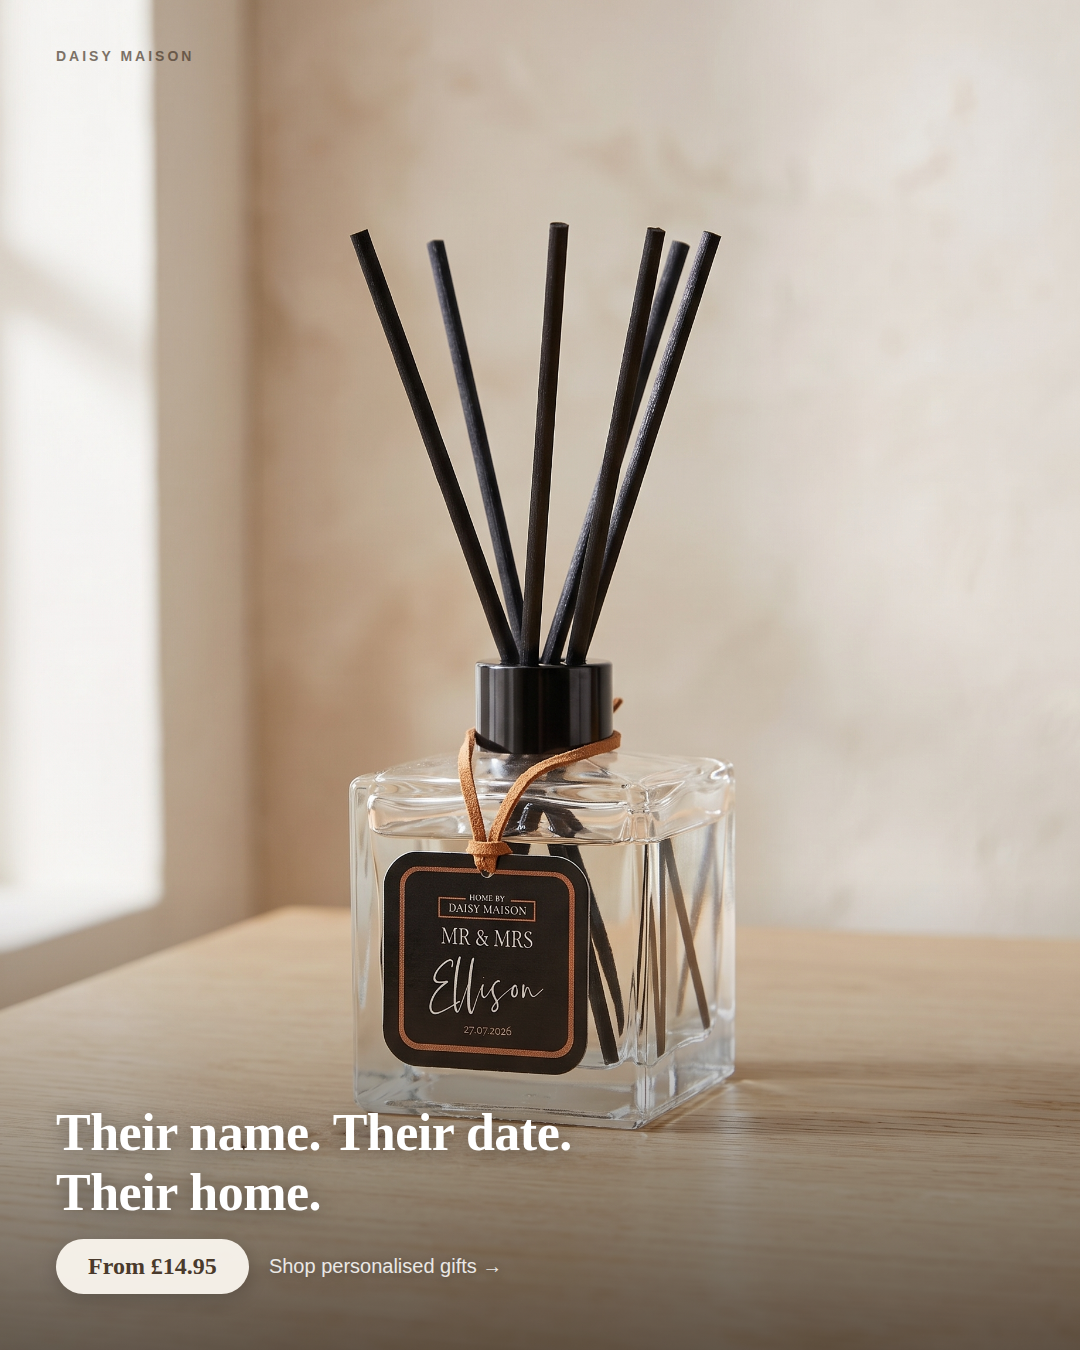
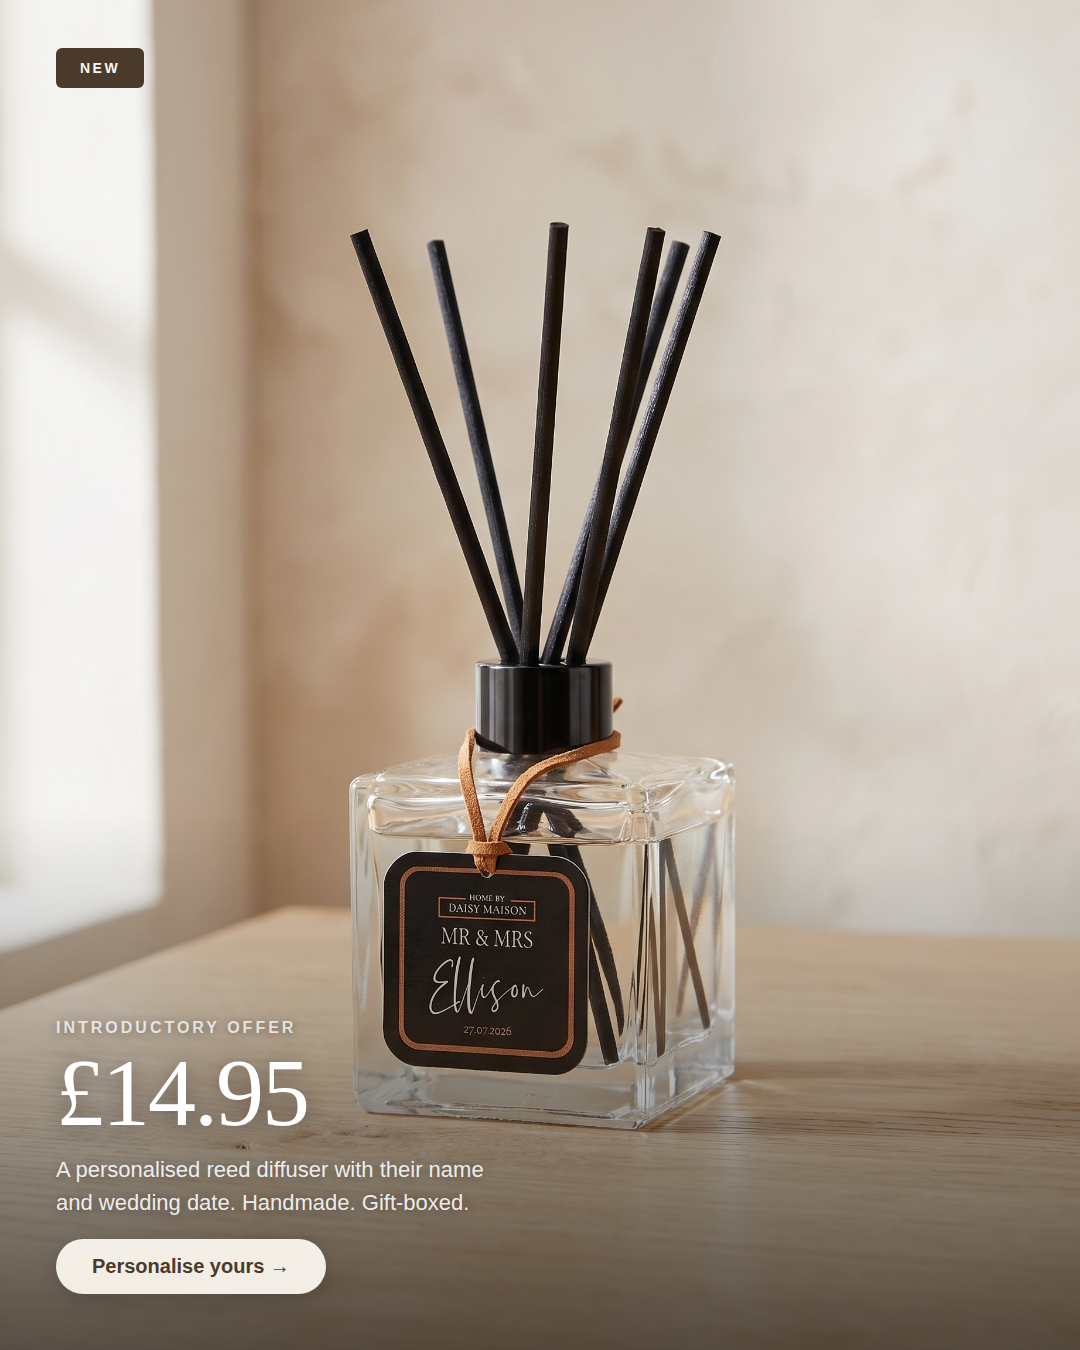
Ad 01: switch to introductory offer angle with £14.95 hero price
Replaces the emotional hook with a launch-price angle — NEW badge
top-left, INTRODUCTORY OFFER label, large £14.95, product description
and CTA pill. Product still full-bleed and unobstructed.

Claude-Session: https://claude.ai/code/session_013jym4WUuakmy4rydQGvooq

Changed region(s): [[0.0306, 0.7467, 0.5194, 0.9644], [0.0306, 0.0311, 0.1833, 0.0622]]

diff --git a/projects/diffuser/ad-creatives/ad-01-headline.html b/projects/diffuser/ad-creatives/ad-01-headline.html
@@ -12,26 +12,27 @@
     position: absolute; top: 0; left: 0;
   }
 
-  /* Subtle gradient at bottom for text legibility */
   .overlay {
     position: absolute; top: 0; left: 0; width: 100%; height: 100%;
     background: linear-gradient(
       180deg,
       rgba(0,0,0,0) 0%,
-      rgba(0,0,0,0) 65%,
-      rgba(0,0,0,0.55) 100%
+      rgba(0,0,0,0) 60%,
+      rgba(0,0,0,0.6) 100%
     );
   }
 
-  .top-brand {
+  .top-badge {
     position: absolute; top: 48px; left: 56px;
     z-index: 2;
+    background: #4A3A2C;
+    color: #FAF6EE;
     font-size: 14px;
     font-weight: 600;
-    color: #4A3A2C;
-    letter-spacing: 3px;
+    letter-spacing: 2.5px;
     text-transform: uppercase;
-    opacity: 0.7;
+    padding: 12px 24px;
+    border-radius: 6px;
   }
 
   .bottom {
@@ -39,54 +40,58 @@
     z-index: 2;
   }
 
-  .headline {
-    font-family: 'Fraunces', serif;
+  .intro-label {
+    font-size: 16px;
     font-weight: 600;
-    font-size: 52px;
-    line-height: 1.15;
+    color: rgba(255,255,255,0.75);
+    letter-spacing: 3px;
+    text-transform: uppercase;
+    text-shadow: 0 1px 8px rgba(0,0,0,0.4);
+    margin-bottom: 8px;
+  }
+
+  .price-hero {
+    font-family: 'Fraunces', serif;
+    font-weight: 300;
+    font-size: 96px;
+    line-height: 1;
     color: #fff;
-    letter-spacing: -0.5px;
-    text-shadow: 0 2px 20px rgba(0,0,0,0.4);
-    margin-bottom: 16px;
+    letter-spacing: -2px;
+    text-shadow: 0 3px 24px rgba(0,0,0,0.4);
+    margin-bottom: 12px;
   }
 
-  .row {
-    display: flex;
-    align-items: center;
-    gap: 20px;
+  .sub {
+    font-size: 22px;
+    font-weight: 400;
+    color: rgba(255,255,255,0.9);
+    text-shadow: 0 1px 12px rgba(0,0,0,0.4);
+    line-height: 1.5;
+    margin-bottom: 20px;
   }
 
-  .price-pill {
+  .cta-pill {
     display: inline-flex;
     background: rgba(250,246,238,0.95);
     color: #4A3A2C;
-    font-family: 'Fraunces', serif;
+    font-family: 'DM Sans', sans-serif;
     font-weight: 600;
-    font-size: 24px;
-    padding: 14px 32px;
+    font-size: 20px;
+    padding: 16px 36px;
     border-radius: 50px;
     box-shadow: 0 4px 20px rgba(0,0,0,0.2);
-  }
-
-  .cta {
-    font-size: 20px;
-    font-weight: 500;
-    color: #fff;
-    opacity: 0.85;
-    text-shadow: 0 1px 8px rgba(0,0,0,0.3);
   }
 </style>
 </head>
 <body>
   <div class="bg"></div>
   <div class="overlay"></div>
-  <div class="top-brand">Daisy Maison</div>
+  <div class="top-badge">New</div>
   <div class="bottom">
-    <div class="headline">Their name. Their date.<br>Their home.</div>
-    <div class="row">
-      <div class="price-pill">From £14.95</div>
-      <div class="cta">Shop personalised gifts &rarr;</div>
-    </div>
+    <div class="intro-label">Introductory Offer</div>
+    <div class="price-hero">£14.95</div>
+    <div class="sub">A personalised reed diffuser with their name<br>and wedding date. Handmade. Gift-boxed.</div>
+    <div class="cta-pill">Personalise yours &rarr;</div>
   </div>
 </body>
 </html>
